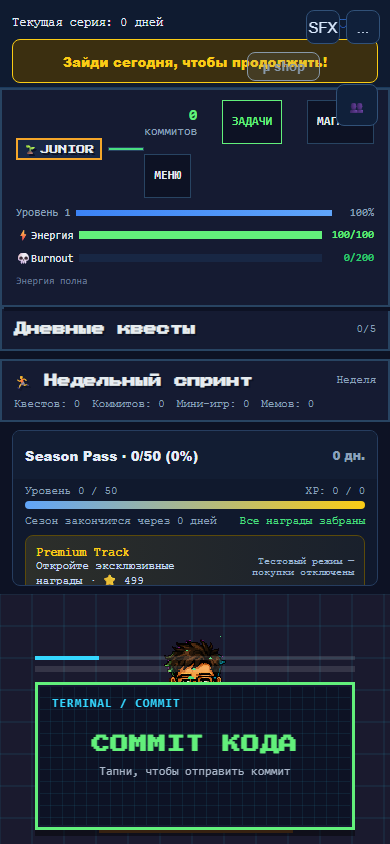
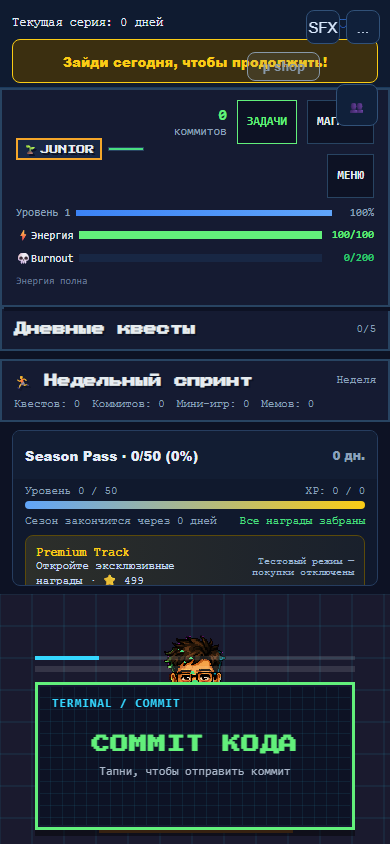
fix(visual): merge Manus D1-D11 with owner review; bound nav z-index
Reconciles the independently recovered work (04ff195) with the handoff
Manus finally delivered as a patch + repo snapshot. His commit 9d2fa00
never reached the remote, but the bundle contained the real code, so the
two implementations could be compared instead of guessed at.

Adopted from Manus:
- boot.spec.js: name all 15 destinations explicitly and assert each is
  visible, enabled and clickable via a trial click. A bare count of 15
  still passes when a destination is renamed or dropped.
- Locate the sheet by role=dialog + accessible name, not by class, so the
  modal semantics stay covered.
- #game-container gets minWidth: 0, overriding the flex-item default of
  min-width: auto that lets the Phaser canvas floor the box width.

Kept from the owner recovery and verified better:
- main.jsx removes #boot-fallback before render() instead of a
  MutationObserver. Both work (proved: Preact clears the adopted node's
  id either way), but one is deterministic and the other is a callback
  that is never disconnected.
- Safe-area padding on .tap-area-v2 and the RandomEventToast z-index,
  neither of which the handoff touched.

Changed against BOTH implementations:
- .hud-v2--navigation-open was 500 here and 300 in the handoff. Both
  overshoot: LoadingOverlay, AchievementToast and PrestigeModal all sit
  at 100, so an open menu would paint over a blocking loading state or a
  fresh achievement. 50 clears everything the menu must cover
[…]

Changed region(s): [[0.3692, 0.1232, 0.7385, 0.2156], [0.4, 0.7393, 0.5846, 0.8318], [0.8615, 0.1848, 0.9538, 0.2156]]

diff --git a/frontend/tests/e2e/boot.spec.js b/frontend/tests/e2e/boot.spec.js
@@ -56,8 +56,30 @@ const VIEWPORTS = [
   { label: '360x800', width: 360, height: 800 },
 ];
 
-/** Every destination that used to live in the legacy toolbar. */
-const EXPECTED_MIN_DESTINATIONS = 15;
+/**
+ * Every destination that used to live in the legacy toolbar. Named explicitly
+ * rather than counted: a count of 15 still passes when a destination was
+ * renamed or dropped and an unrelated tile took its place. Two entries are
+ * conditional at runtime (Мини-игры, Проверка аккаунта), hence the
+ * greater-or-equal check on top of the per-name assertions.
+ */
+const EXPECTED_DESTINATIONS = [
+  'Усилители',
+  'Генераторы',
+  'Пригласить',
+  'Баттл дня',
+  'Сводка',
+  'События',
+  'Спринт-пасс',
+  'Достижения',
+  'Команда',
+  'Командный баттл',
+  'Лидерборд',
+  'Мемы',
+  'Скины',
+  'Карьера',
+  'Язык',
+];
 
 async function bootApp(page) {
   await page.route('https://telegram.org/js/telegram-web-app.js', (route) =>
@@ -163,19 +185,30 @@ for (const viewport of VIEWPORTS) {
 
     await menuButton.click();
 
-    const sheet = page.locator('.hud-v2__nav-sheet');
+    // Located by role and accessible name, not by class: if the sheet ever
+    // loses role="dialog" or its aria-label, screen-reader users lose the
+    // modal semantics even though the class-based selector still matches.
+    const sheet = page.getByRole('dialog', { name: 'Меню игры' });
     await expect(sheet).toBeVisible();
 
-    const destinations = page.locator('.hud-v2__nav-grid .hud-v2__nav-item');
-    const count = await destinations.count();
-    expect(
-      count,
-      `expected at least ${EXPECTED_MIN_DESTINATIONS} destinations in the sheet`
-    ).toBeGreaterThanOrEqual(EXPECTED_MIN_DESTINATIONS);
+    const all = page.locator('.hud-v2__nav-grid .hud-v2__nav-item');
+    const count = await all.count();
+    expect(count, 'destination tiles in the sheet').toBeGreaterThanOrEqual(
+      EXPECTED_DESTINATIONS.length
+    );
+
+    for (const label of EXPECTED_DESTINATIONS) {
+      const item = sheet.getByRole('button', { name: new RegExp(`^${label}`) });
+      await expect(item, `menu destination ${label}`).toBeVisible();
+      await expect(item, `menu destination ${label} must be actionable`).toBeEnabled();
+      // A trial click runs the full actionability check — including hit-target
+      // verification — without dispatching the event. This is what catches a
+      // destination that is on screen but covered by another layer.
+      await item.click({ trial: true });
+    }
 
     for (let i = 0; i < count; i += 1) {
-      const item = destinations.nth(i);
-      await expect(item, `destination #${i + 1} must be visible`).toBeVisible();
+      const item = all.nth(i);
       const itemBox = await item.boundingBox();
       expect(itemBox, `destination #${i + 1} must be laid out`).not.toBeNull();
       expect(itemBox.width, `destination #${i + 1} has no width`).toBeGreaterThan(0);

diff --git a/frontend/src/assets/visual-system-v2.css b/frontend/src/assets/visual-system-v2.css
@@ -10,13 +10,20 @@
   min-height: 100dvh;
 }
 
-/* While the navigation sheet is open the whole HUD is lifted above
-   .tap-area-v2 (z-index 20). The sheet is a child of .hud-v2, which forms a
-   stacking context at z-index 10 — so on its own the sheet's z-index 300 can
-   never out-rank its sibling tap area, and the absolutely positioned tap area
-   keeps intercepting pointer events over the open sheet. */
+/* While the navigation sheet is open the whole HUD is lifted above its siblings
+   in the app shell. The sheet is a child of .hud-v2, which forms a stacking
+   context at z-index 10 — so on its own the sheet's z-index 300 can never
+   out-rank .tap-area-v2 (z-index 20), and the absolutely positioned tap area
+   keeps intercepting pointer events over the open sheet.
+
+   50 is deliberate, not arbitrary: it clears every sibling the menu has to
+   cover (.tap-area-v2 at 20/30, panels at 40/44/45) while staying BELOW the
+   layers that must remain on top of an open menu — LoadingOverlay,
+   AchievementToast and PrestigeModal all sit at 100, OnboardingModal at 1000.
+   A value like 300 or 500 would paint the menu over a blocking loading state
+   or over a freshly earned achievement toast. */
 .hud-v2--navigation-open {
-  z-index: 500 !important;
+  z-index: 50 !important;
 }
 
 .hud-v2 {

diff --git a/frontend/src/components/StatsBar.jsx b/frontend/src/components/StatsBar.jsx
@@ -395,15 +395,18 @@ export default function StatsBar({ runtimeNow }) {
           h(
             "div",
             {
-              // hud-v2__quick-actions supplies flex-wrap. Without it the МЕНЮ
-              // button is pushed off-screen at 360px — and it is the only entry
-              // point to every destination in the bottom sheet.
+              // hud-v2__quick-actions supplies flex-wrap (and justify-content:
+              // flex-end). Without the wrap the МЕНЮ button is pushed off-screen
+              // at 360px — and it is the only entry point to every destination
+              // in the bottom sheet. Keep justify-content from the class: the
+              // parent top row already spreads the badge and this group apart,
+              // so spreading again here would strand the commit counter on the
+              // far left, away from the buttons it belongs to.
               className: "hud-v2__quick-actions",
               style: {
                 display: "flex",
                 alignItems: "center",
                 gap: "10px",
-                justifyContent: "space-between",
               },
             },
             [

diff --git a/frontend/src/App.jsx b/frontend/src/App.jsx
@@ -606,7 +606,14 @@ function AppInner() {
     h(PassPanel),
     h(
       "div",
-      { id: "game-container" },
+      {
+        id: "game-container",
+        // minWidth: 0 overrides the default min-width: auto of a flex item.
+        // Without it the Phaser canvas' intrinsic width sets a floor on this
+        // box and the game area can push the shell wider than the viewport,
+        // which is exactly the horizontal-overflow failure the E2E gate checks.
+        style: { minWidth: 0 },
+      },
       h(PhaserGame, { onReady: handleGameReady }),
     ),
     h(TapArea, { active: gameReady }),
